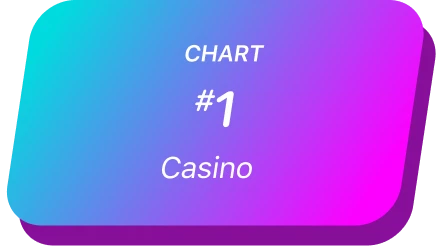
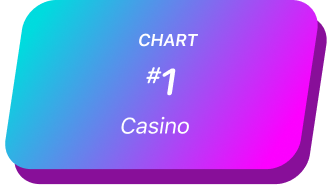
[U6cYuTDF] Повысить качество фото в блоке Телефон -- сжал фотографии в блоке и заменил svg (chart и rating) на webp

diff --git a/src/pages/main/ui/page/sections/phone/index.vue b/src/pages/main/ui/page/sections/phone/index.vue
@@ -13,20 +13,20 @@
       class="moving-element w-[26.75rem] max-md:left-[4.808rem] max-md:top-[63rem] max-md:w-[10.031rem] max-md:h-[2.344rem] h-[6.25rem] absolute top-[70.15rem] left-[34.6rem] z-20"
     />
     <NuxtImg
-      src="/images/chart1.svg"
+      src="/images/chart1.webp"
       class="moving-element max-md:left-[13.77rem] max-md:top-[59.6rem] max-md:w-[4.2rem] max-md:h-[2.35rem] w-[10.8455rem] h-[6.2rem] absolute top-[62.8rem] left-[58.63rem] z-20"
       data-speed="3"
     />
     <NuxtImg
-      src="/images/rating.svg"
+      src="/images/rating1.webp"
       class="moving-element max-md:left-[2.706rem] max-md:top-[65.85rem] max-md:w-[3.1rem] max-md:h-[2.5875rem] w-[8.35rem] h-[7.3rem] absolute top-[77.05rem] left-[28.44rem] z-30"
     />
     <NuxtImg
-      src="/images/rating2.svg"
+      src="/images/rating2.webp"
       class="moving-element max-md:left-[15.876rem] max-md:top-[69.3rem] max-md:w-[3.592rem] max-md:h-[2.788rem] w-[9.897rem] h-[7.45rem] absolute top-[88.5rem] left-[62rem]"
     />
     <NuxtImg
-      src="/images/chart.svg"
+      src="/images/chart2.webp"
       class="moving-element max-md:left-[.85rem] max-md:top-[71.97rem] max-md:w-[3.5405rem] max-md:h-[2.6875rem] w-[9.5rem] h-[7.5rem] absolute top-[95.85rem] left-[26.32rem]"
     />
     <NuxtImg

diff --git a/src/pages/main/ui/page/index.vue b/src/pages/main/ui/page/index.vue
@@ -2,7 +2,7 @@
   <LayoutHeaderWidget />
   <MainPageSectionsWelcome class="mt-[16.5rem] max-md:mt-[10rem]" />
   <MainPageSectionsPhone />
-  <MainPageSectionsPurposes class="mt-[7.4rem] max-md:mt-[1.7rem]" />
+  <MainPageSectionsPurposes class="mt-[7.4rem] max-md:mt-0" />
   <MainPageSectionsServices class="mt-[16.5rem] max-md:mt-[10rem]" />
   <MainPageSectionsFeedBackSection class="mt-[16.5rem] max-md:mt-[10rem]" />
   <PriceListWidget class="mt-[16.5rem]" />